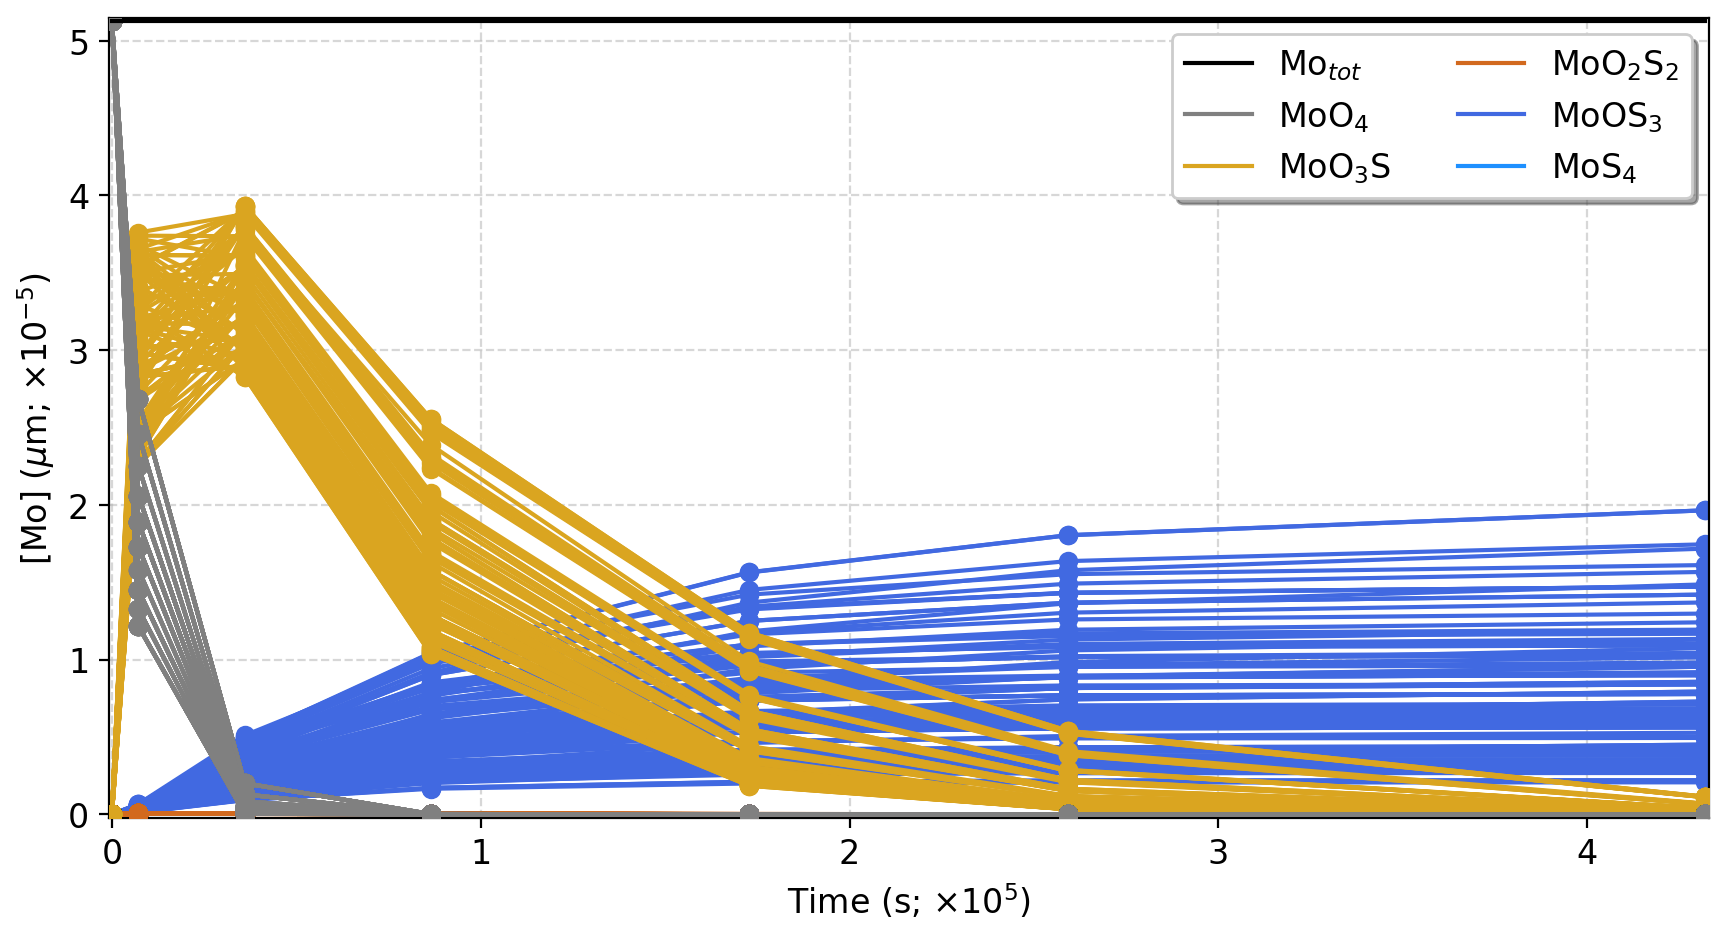
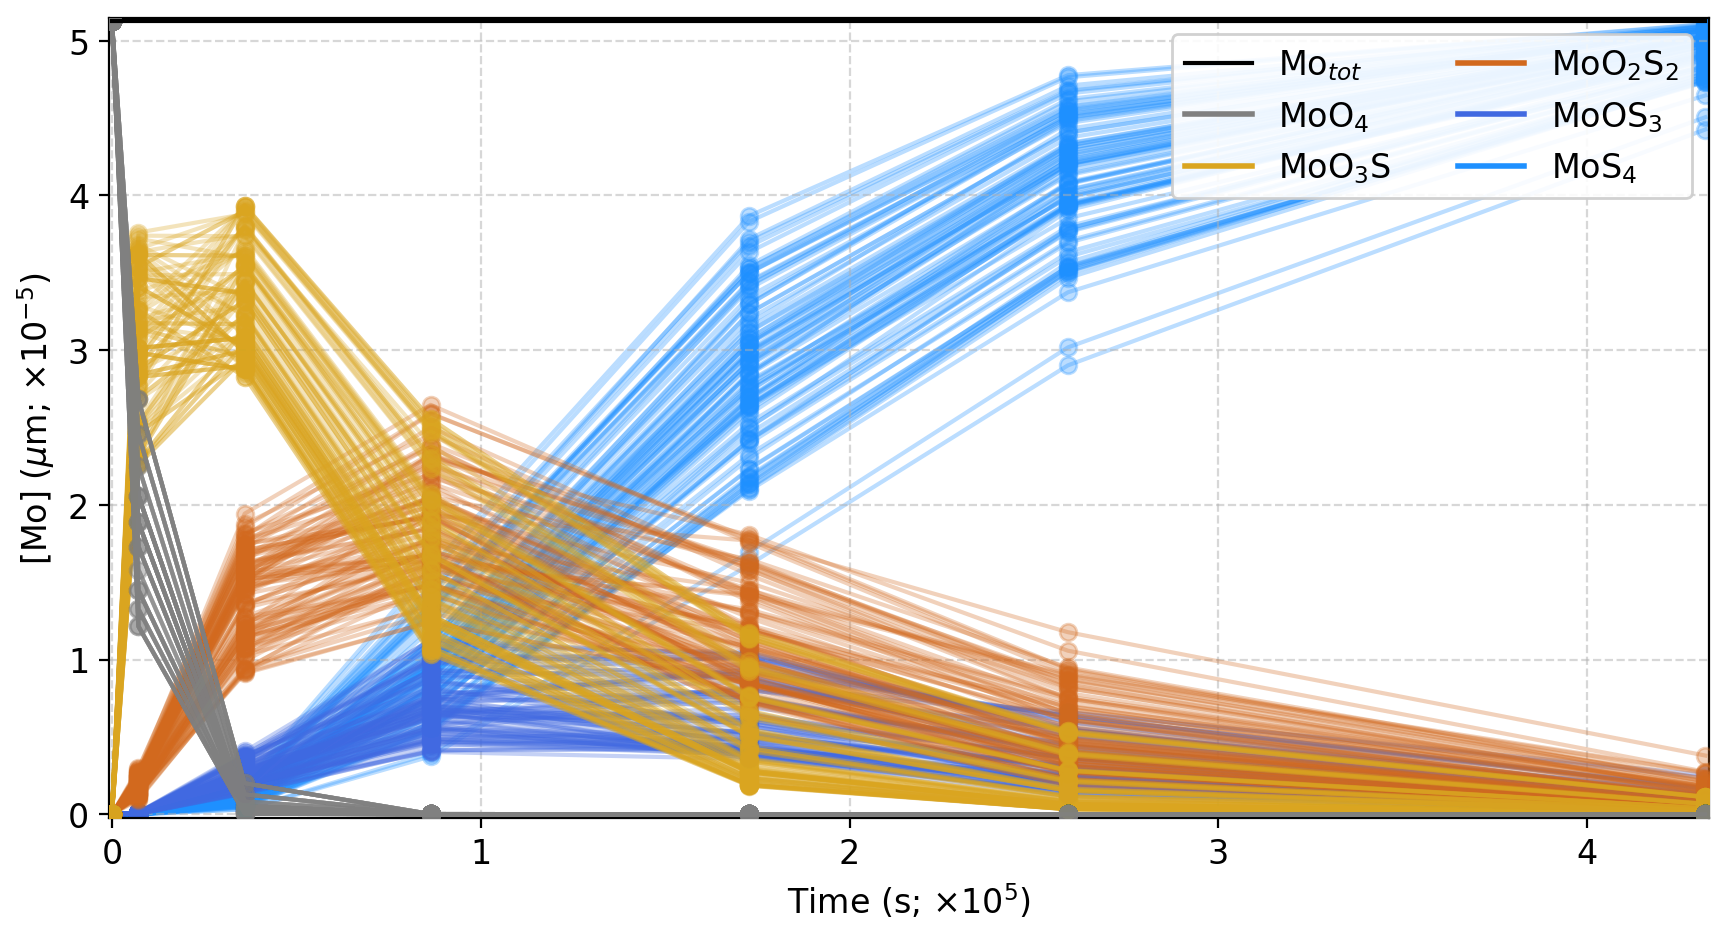
A-D math worked out

diff --git a/kinetic.py b/kinetic.py
@@ -22,6 +22,7 @@ from __future__ import division
 import numpy as np
 import xarray as xr
 import matplotlib.pyplot as plt
+import pylab
 
 
 ###############################################################################
@@ -48,20 +49,20 @@ number_of_samples = 100
 
 ki_low = 9e-5 #k_{01}
 kii_low = 9e-6 #k_{12}
-kiii_low = 9e-4 #k_{23}
-#kiiii_low = 1e-8 #K_{34}
+kiii_low = 9e-6 #k_{23}
+kiiii_low = 2e-5 #K_{34}
 
 ki_hi = 2e-4
 kii_hi = 2e-5
-kiii_hi = 2e-3
-#kiiii_hi = 5e-7
+kiii_hi = 2e-5
+kiiii_hi = 5e-5
 
 
 
 ki_range = np.linspace(ki_low,ki_hi,10)
 kii_range = np.linspace(kii_low,kii_hi,10)
 kiii_range = np.linspace(kiii_low,kiii_hi,10)
-#kiiii_range = np.linspace(kiiii_low,kiiii_hi,1000)
+kiiii_range = np.linspace(kiiii_low,kiiii_hi,10)
 
 #note: no kv for E needed
 #note: ki>kii>kiii>kiiii
@@ -99,14 +100,14 @@ rand_kii = np.array([np.random.choice(10) for i in range(number_of_samples)])
 np.random.seed(2)
 rand_kiii = np.array([np.random.choice(10) for i in range(number_of_samples)])
 
-#np.random.seed(3)
-#rand_kiiii = np.array([np.random.choice(1000) for i in xrange(number_of_samples)])
+np.random.seed(3)
+rand_kiiii = np.array([np.random.choice(10) for i in range(number_of_samples)])
 
 
 ki_randomized = ki_range[rand_ki]
 kii_randomized = kii_range[rand_kii]
 kiii_randomized = kiii_range[rand_kiii]
-#kiiii_randomized = kiiii_range[rand_kiiii]
+kiiii_randomized = kiiii_range[rand_kiiii]
 
 
 ###############################################################################
@@ -121,7 +122,7 @@ C_solutions = np.zeros((number_of_samples,7))
 D_solutions = np.zeros((number_of_samples,7))
 E_solutions = np.zeros((number_of_samples,7))
 
-for indexer, (ki, kii, kiii) in enumerate(zip(ki_randomized, kii_randomized, kiii_randomized)):
+for indexer, (ki, kii, kiii, kiiii) in enumerate(zip(ki_randomized, kii_randomized, kiii_randomized, kiiii_randomized)):
 
     for sec_indexer, (t, A_o) in enumerate(zip(time_values, Ao_realvalues)):
 
@@ -134,19 +135,44 @@ for indexer, (ki, kii, kiii) in enumerate(zip(ki_randomized, kii_randomized, kii
 
         #Subject to change, Natalia and Dimtry will check my math for these equations
 
-        C = np.divide((ki*A_o),(kii-ki)) * (((kiii-ki) * np.exp(-ki*t)) - ((kiii-kii) * np.exp(-kii*t)) + ((ki-kii) * np.exp(-kiii*t)))
+        C = (np.divide((kii*ki*A_o),(kii-ki)) * \
+                    ((np.divide(1,(kiii-ki)) * np.exp(-ki*t)) - \
+                    (np.divide(1,(kiii-kii)) * (np.exp(-kii*t))) + \
+                    (np.divide(1 ,(kiii-kii)) * (np.exp(-kiii*t))) - \
+                    (np.divide(1 ,(kiii-ki)) * (np.exp(-kiii*t)))))
         #MARIA'S COMMENT: Please double check bracket placements in equation for D! -- SRH they are correct
 
-        D = np.divide((ki*A_o*kiii), (kii-ki)) * \
-                      ((np.divide((kiii-ki),(-ki)) * np.exp(-ki*t)) - \
-                       (np.divide((kiii-kii),(-kii)) * np.exp(-kii*t)) + \
-                       (np.divide((ki-kii),(-kiii)) * np.exp(-kiii*t))) - \
-                       (np.divide((ki*A_o*kiii), (kii-ki)) * \
-                        (np.divide((kiii-ki),(-ki)) - \
-                         np.divide((kiii-kii),(-kii)) + \
-                         np.divide((ki-kii),(-kiii))))
+        D = np.divide((kiii*kii*ki*A_o), (kii-ki))  * \
+                      ((np.divide(1, ((kiii-ki)*(kiiii-ki))) * np.exp(-ki*t)) - \
+                       (np.divide(1, ((kiii-kii)*(kiiii-kii))) * np.exp(-kii*t)) + \
+                       (np.divide(1, ((kiii-kii)*(kiiii-kiii))) * np.exp(-kiii*t)) - \
+                       (np.divide(1, ((kiii-ki)*(kiiii-kiii))) * np.exp(-kiii*t)) - \
+                       (np.divide(1, ((kiii-ki)*(kiiii-ki))) * np.exp(-kiiii*t)) + \
+                       (np.divide(1, ((kiii-kii)*(kiiii-kii))) * np.exp(-kiiii*t)) - \
+                       (np.divide(1, ((kiii-kii)*(kiiii-kiii))) * np.exp(-kiiii*t)) + \
+                       (np.divide(1, ((kiii-ki)*(kiiii-kiii))) * np.exp(-kiiii*t)))
 
-        E = A_o - A - B - C - D #Testing with E to see where an error might be in the equations
+        E = A_o - A - B - C - D
+
+        '''
+        E = np.divide((kiiii*kiii*kii*ki*A_o), (kii-ki))  * \
+                      ((np.divide(1, ((kiii-ki)*(kiiii-ki)*(-ki))) * np.exp(-ki*t)) - \
+                       (np.divide(1, ((kiii-kii)*(kiiii-kii)*(-kii))) * np.exp(-kii*t)) + \
+                       (np.divide(1, ((kiii-kii)*(kiiii-kiii)*(-kiii))) * np.exp(-kiii*t)) - \
+                       (np.divide(1, ((kiii-ki)*(kiiii-kiii)*(-kiii))) * np.exp(-kiii*t)) - \
+                       (np.divide(1, ((kiii-ki)*(kiiii-ki)*(-kiiii))) * np.exp(-kiiii*t)) + \
+                       (np.divide(1, ((kiii-kii)*(kiiii-kii)*(-kiiii))) * np.exp(-kiiii*t)) - \
+                       (np.divide(1, ((kiii-kii)*(kiiii-kiii)*(-kiiii))) * np.exp(-kiiii*t)) + \
+                       (np.divide(1, ((kiii-ki)*(kiiii-kiii)*(-kiiii))) * np.exp(-kiiii*t)) - \
+                       np.divide(1, ((kiii-ki)*(kiiii-ki)*(-ki))) + \
+                       np.divide(1, ((kiii-kii)*(kiiii-kii)*(-kii))) - \
+                       np.divide(1, ((kiii-kii)*(kiiii-kiii)*(-kiii))) + \
+                       np.divide(1, ((kiii-ki)*(kiiii-kiii)*(-kiii))) + \
+                       np.divide(1, ((kiii-ki)*(kiiii-ki)*(-kiiii))) - \
+                       np.divide(1, ((kiii-kii)*(kiiii-kii)*(-kiiii))) + \
+                       np.divide(1, ((kiii-kii)*(kiiii-kiii)*(-kiiii))) - \
+                       np.divide(1, ((kiii-kii)*(kiiii-kiii)*(-kiiii))))
+        '''
 
         A_solutions[indexer, sec_indexer] = A
         B_solutions[indexer, sec_indexer] = B
@@ -193,18 +219,18 @@ for i in range(0,number_of_samples):
     #print i
 
     #the line plots, time versus data
-    ls2, = ax.plot(time_values, A_solutions[i,:], c='grey', zorder=5)
-    ls3, = ax.plot(time_values, B_solutions[i,:], c='goldenrod', zorder=4)
-    ls4, = ax.plot(time_values, C_solutions[i,:], c='chocolate', zorder=3)
-    ls5, = ax.plot(time_values, D_solutions[i,:], c='royalblue', zorder=2)
-    #ls6, = ax.plot(time_values, E_solutions[i,:], c='dodgerblue', zorder=1)
+    ls2, = ax.plot(time_values, A_solutions[i,:], c='grey', zorder=5, alpha=0.3)
+    ls3, = ax.plot(time_values, B_solutions[i,:], c='goldenrod', zorder=4, alpha=0.3)
+    ls4, = ax.plot(time_values, C_solutions[i,:], c='chocolate', zorder=3, alpha=0.3)
+    ls5, = ax.plot(time_values, D_solutions[i,:], c='royalblue', zorder=2, alpha=0.3)
+    ls6, = ax.plot(time_values, E_solutions[i,:], c='dodgerblue', zorder=1, alpha=0.3)
 
     #the scatter points of data observations
-    ax.scatter(time_values, A_solutions[i,:], c='grey', zorder=5)
-    ax.scatter(time_values, B_solutions[i,:], c='goldenrod', zorder=4)
-    ax.scatter(time_values, C_solutions[i,:], c='chocolate', zorder=3)
-    ax.scatter(time_values, D_solutions[i,:], c='royalblue', zorder=2)
-    #ax.scatter(time_values, E_solutions[i,:], c='dodgerblue', zorder=1)
+    ax.scatter(time_values, A_solutions[i,:], c='grey', zorder=5, alpha=0.1)
+    ax.scatter(time_values, B_solutions[i,:], c='goldenrod', zorder=4, alpha=0.3)
+    ax.scatter(time_values, C_solutions[i,:], c='chocolate', zorder=3, alpha=0.3)
+    ax.scatter(time_values, D_solutions[i,:], c='royalblue', zorder=2, alpha=0.3)
+    ax.scatter(time_values, E_solutions[i,:], c='dodgerblue', zorder=1,  alpha=0.3)
 
 #force plot to not have any buffer space
 plt.margins(x=0, y=0)
@@ -213,10 +239,16 @@ plt.margins(x=0, y=0)
 ax.set_xlabel(r'Time (s; $ \times 10^{5}$)', fontsize=12, color='k')
 ax.set_ylabel(r'[Mo] ($\mu$m; $ \times 10^{-5}$)', fontsize=12, color='k')
 
-ax.legend([ls1, ls2, ls3, ls4, ls5, ls6],
+line1 = pylab.Line2D(range(10),range(10),marker="_",linewidth=2.0,color="grey",alpha=1.0)
+line2 = pylab.Line2D(range(10),range(10),marker="_",linewidth=2.0,color="goldenrod",alpha=1.0)
+line3 = pylab.Line2D(range(10),range(10),marker="_",linewidth=2.0,color="chocolate",alpha=1.0)
+line4 = pylab.Line2D(range(10),range(10),marker="_",linewidth=2.0,color="royalblue",alpha=1.0)
+line5 = pylab.Line2D(range(10),range(10),marker="_",linewidth=2.0,color="dodgerblue",alpha=1.0)
+
+ax.legend([ls1, line1, line2, line3, line4, line5],
           ['Mo$_{tot}$','MoO$_{4}$','MoO$_{3}$S','MoO$_{2}$S$_{2}$','MoOS$_{3}$', 'MoS$_{4}$'],
-                              loc='upper right',shadow=True,
-          fancybox=True, ncol=2, fontsize=12, framealpha=1.)
+                              loc='upper right',
+          fancybox=True, ncol=2, fontsize=12, framealpha=0.9)
 
 ax.set_xticks([0.,100000,200000,300000,400000])
 ax.set_xticklabels(['0','1','2','3','4'], fontsize=12)
